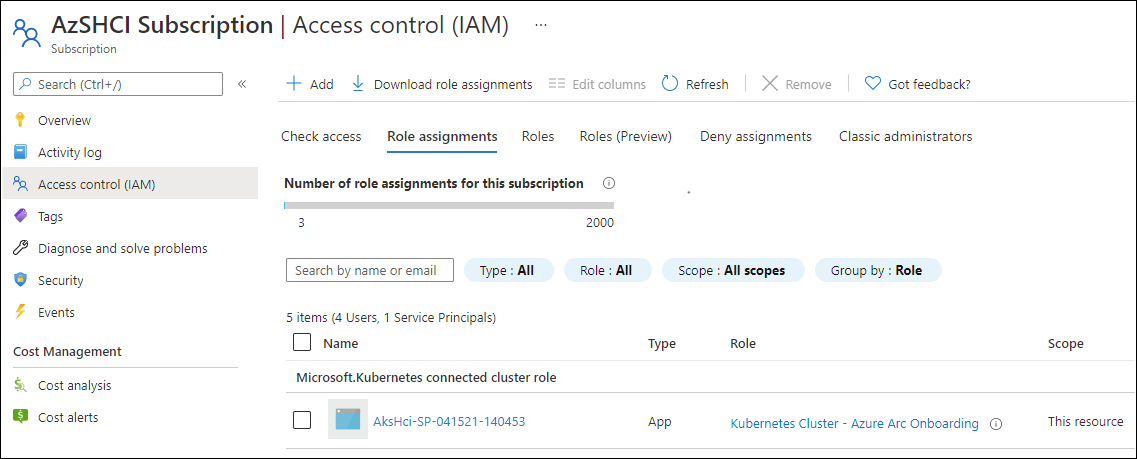
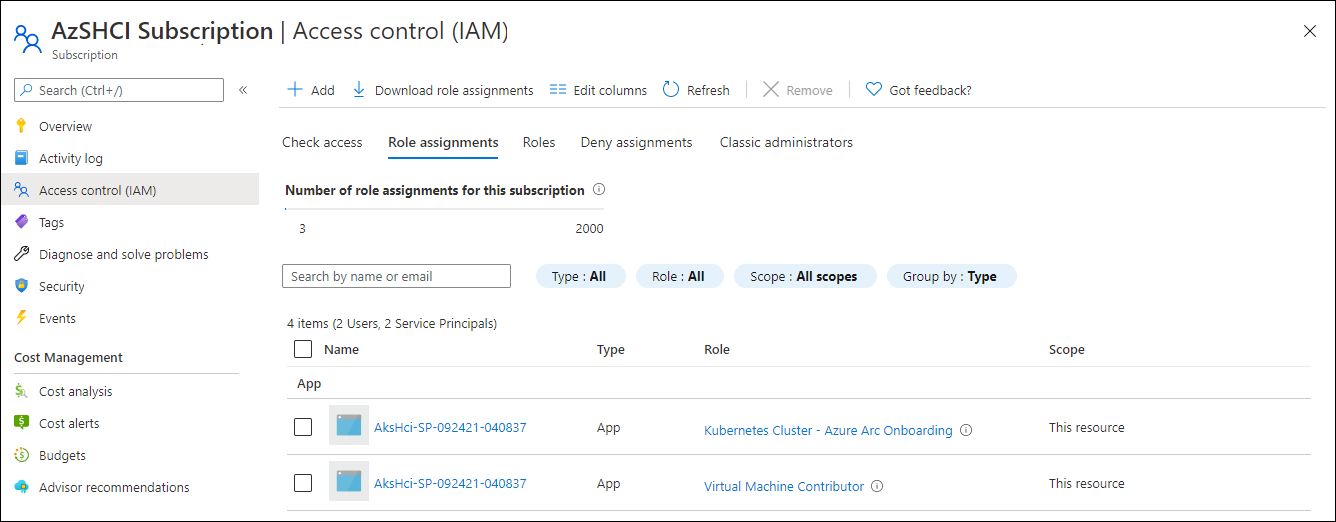
SP AAD App

diff --git a/eval/autodeploy/README.md b/eval/autodeploy/README.md
@@ -138,7 +138,7 @@ For reference, the Standard_E8s_v4 VM size costs approximately US $0.50 per hour
 
 In order to deploy this solution, the **User Account** that you wish to use to deploy this Azure VM sandbox needs to have the following permissions:
 
-* Must be able to create a **Resource Group**, deploy a **Virtual Machine** and register **resource providers** within a subscription. For those reasons, for the chosen subscription, the user account should be configured as one of the following roles:
+* Must be able to create a **Resource Group**, deploy a **Virtual Machine** and register **Resource Providers** within a specific subscription. For those reasons, for the chosen subscription, the user account should be configured as one of the following roles:
   * **Owner**
   * **Contributer**
 
@@ -210,11 +210,15 @@ Write-Host "App Secret: $secret"
 
 From the above output, you have the **Application ID** and the **secret** for use when deploying the automated AKS on Azure Stack HCI sandbox, so take a note of those and store them safely.
 
-With that created, in the **Azure portal**, under **Subscriptions**, **Access **Control****, and then **Role Assignments**, you should see your new Service Principal.
+With that created, in the **Azure portal**, under **Subscriptions**, **Access Control**, and then **Role Assignments**, you should see your new Service Principal.
 
 ![Service principal shown in Azure](/eval/media/akshci-spcreated.png "Service principal shown in Azure")
 
-With your service principal created and assigned, and user account permissions verified
+With the Service Principal created, you can verify that the Service Principal has the appropriate permissions in Azure Active Directory by logging into the **Azure portal**, under **Azure Active Directory**, **App Registrations**, and then **All Applications**, you should see your new Service Principal listed. Click on your Service Principal, then click on **Roles and administrators**. The Service Principal should have the built-in **Cloud application administrator** role, as shown in the scren below.
+
+![Service principal permissions shown in Azure AD](/eval/media/akshci-spaad.png "Service principal permissions shown in Azure AD")
+
+With your service principal created and assigned, and user account permissions verified, the final step to check is to ensure you have registered the appropriate Kubernetes Resource Providers for your chosen subscription.
 
 ### Register the Kubernetes resource providers ###
 
